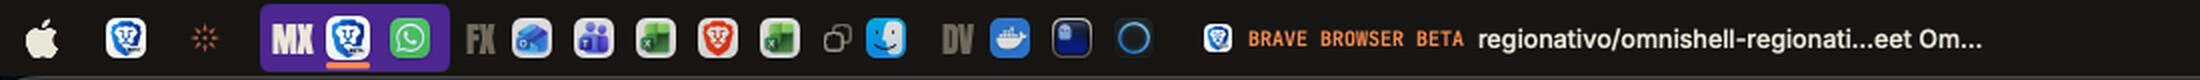
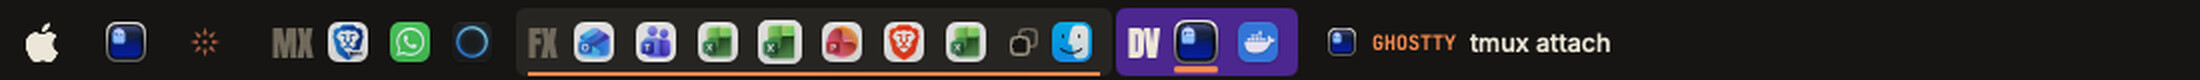
Regionativo 1.0.7: orange hover rule instead of workspace zoom
Zooming a whole workspace scaled with its width, so full workspaces slid under
their neighbours. Hovering a workspace now shows a faint tint and a thin orange
rule along its bottom. Previews updated.

Claude-Session: https://claude.ai/code/session_01T4bFM5Gw8LbBqaTboDxNrj

diff --git a/README.md b/README.md
@@ -16,7 +16,7 @@ The bar reads like a drawing's title block: square cells with a mono label over 
 The active workspace is a solid purple block with softly rounded corners, the focused app
 underlined by a short orange rule; the others step back to muted names with their app icons
 kept large and bright, and empty ones are struck through in orange. Floating windows sit
-behind a marker of two overlapping squares. Hovering a workspace lifts it, Dock-style, and the app icon
+behind a marker of two overlapping squares. Hovering a workspace draws a thin orange rule along its bottom, and the app icon
 under the pointer zooms in. While the camera or microphone is in use, a CAM / MIC cell
 lights up in red or orange. The clock is set in Anton with a mono date, and Control
 Center is a dark tile with a menu mark. Popouts are square frames inset from the window edge, with Anton
